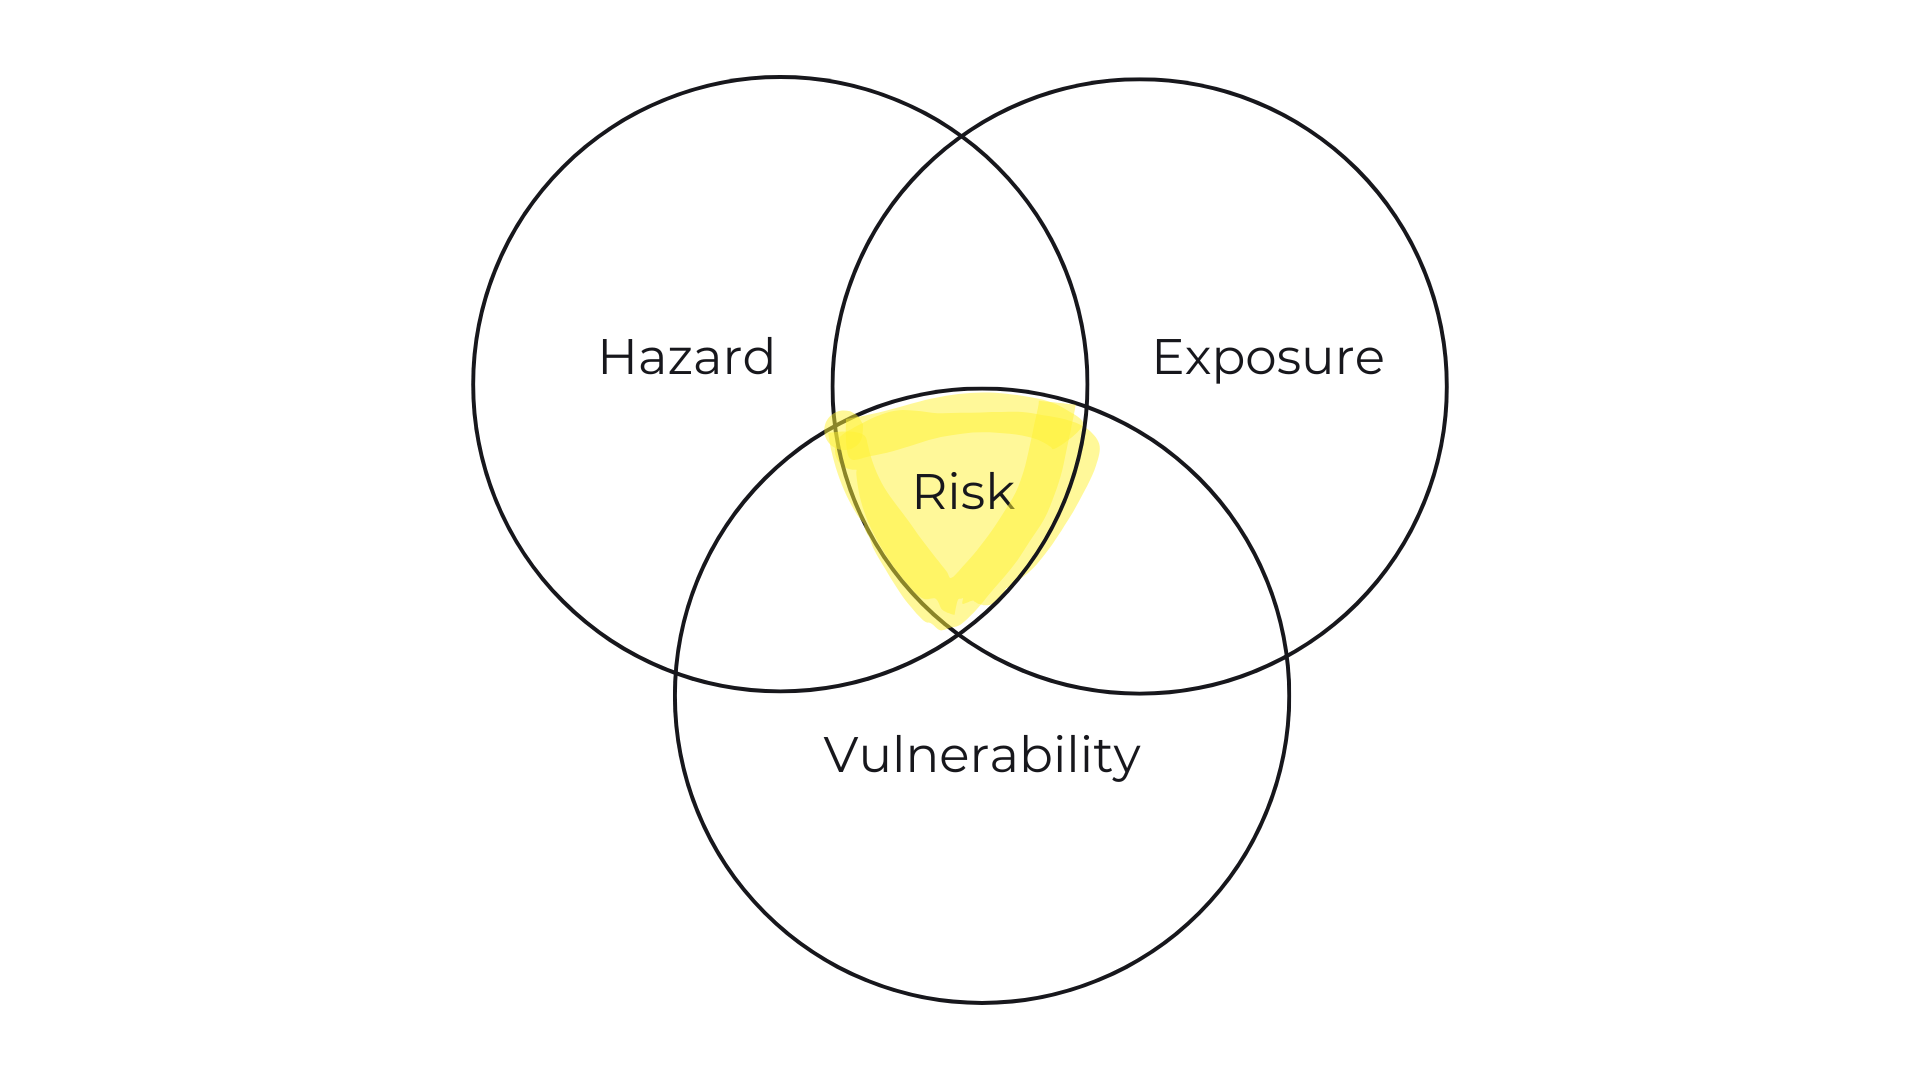
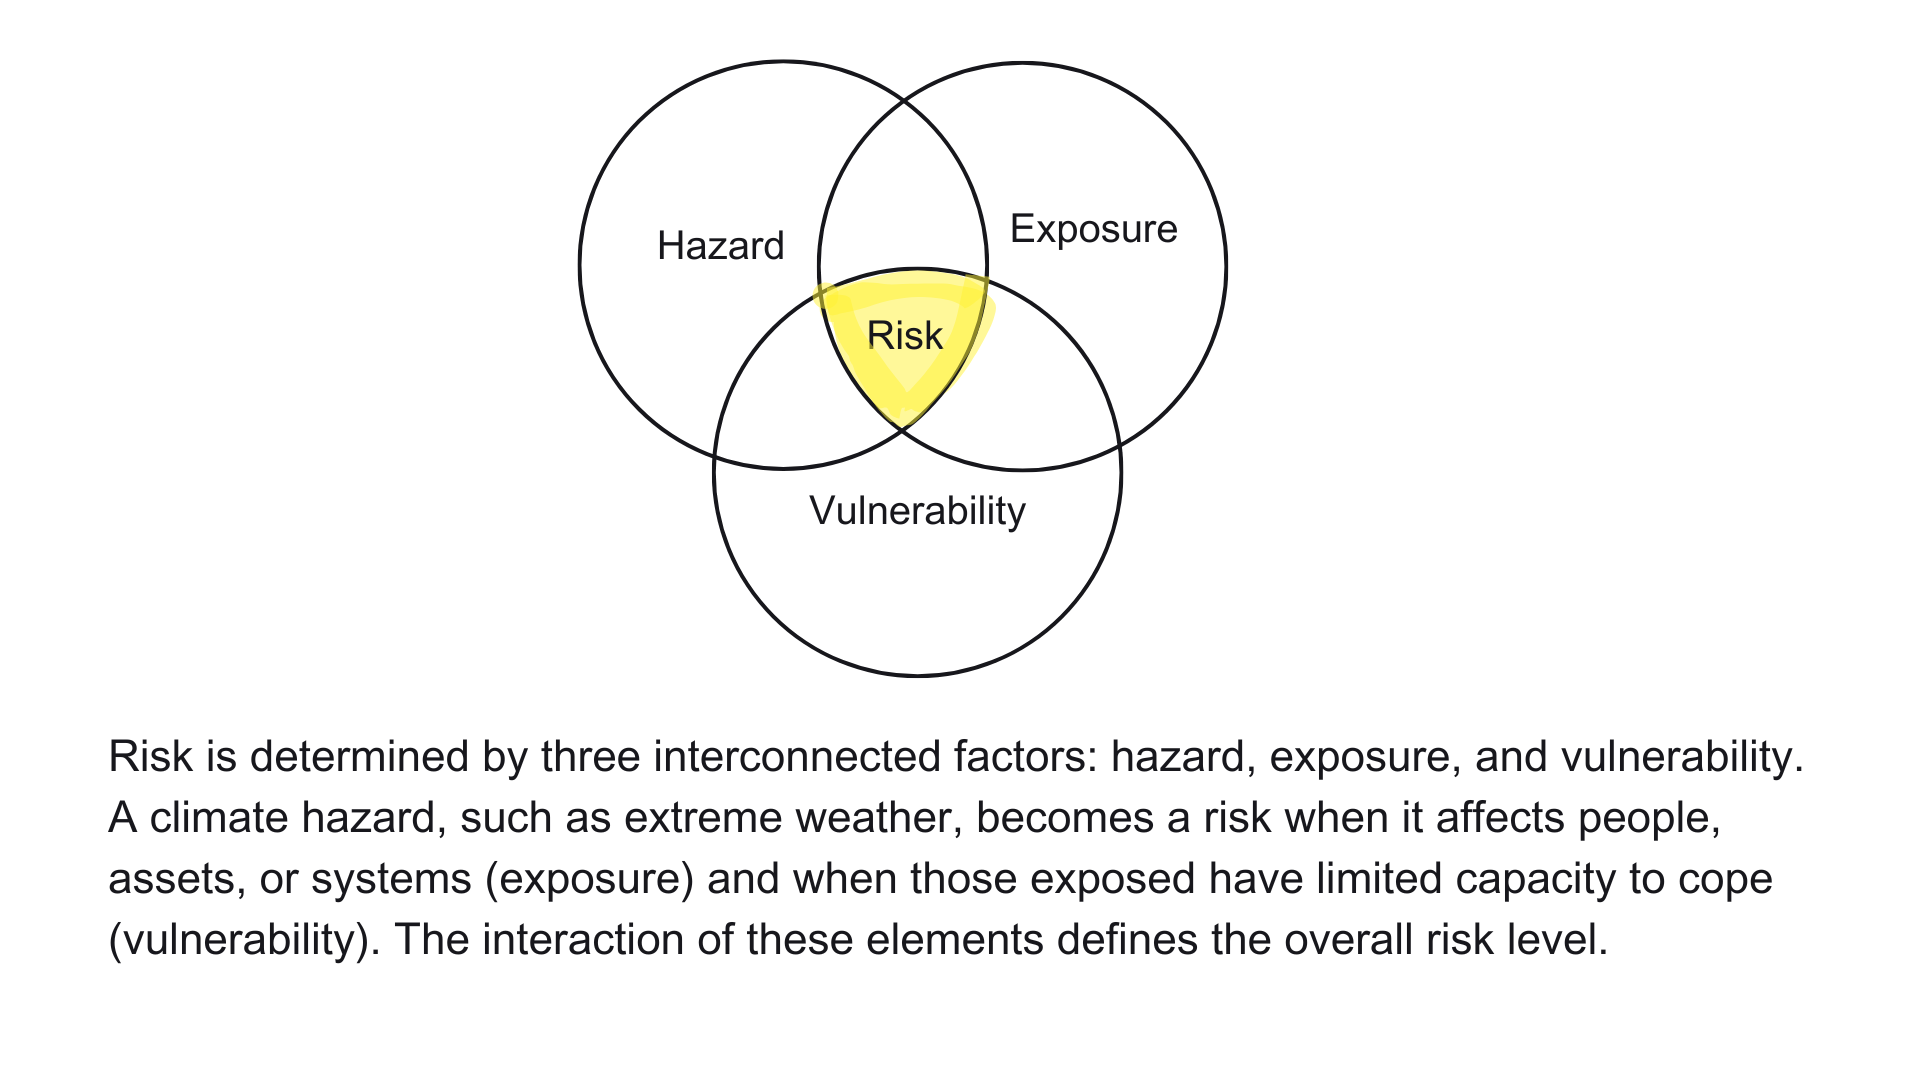
changed arial

diff --git a/index.html b/index.html
@@ -291,9 +291,9 @@
     <!-- Slide 1 Section -->
     <div class="fullscreen-section" style="position: relative; margin-bottom: 50px;">
         <img src="assets/images/Slide 1.png" alt="Slide 1" style="width: 100%; height: 100%; object-fit: cover; position: absolute; top: 0; left: 0;">
-        <div class="fade-in-text" style="position: absolute; bottom: -7%; right: 1%; background: rgba(255, 255, 255, 0.7); color: black; padding: 10px 20px; border-radius: 5px; font-size: 1.2rem; text-align: center; opacity: 0; transform: translateY(20px); transition: opacity 1s ease, transform 1s ease;">
+        <!-- <div class="fade-in-text" style="position: absolute; bottom: -7%; right: 1%; background: rgba(255, 255, 255, 0.7); color: black; padding: 10px 20px; border-radius: 5px; font-size: 1.2rem; text-align: center; opacity: 0; transform: translateY(20px); transition: opacity 1s ease, transform 1s ease;">
         Risk is determined by three interconnected factors: hazard, exposure, and vulnerability. A climate hazard, such as extreme weather, becomes a risk when it affects people, assets, or systems (exposure) and when those exposed have limited capacity to cope (vulnerability). The interaction of these elements defines the overall risk level.
-        </div>
+        </div> -->
     </div>
 
     <!-- Spacer Section -->
@@ -302,9 +302,9 @@
     <!-- GovTech Design Section -->
     <div class="fullscreen-section" style="position: relative;">
         <img src="assets/images/govtech-design.png" alt="GovTech Design" style="width: 100%; height: 100%; object-fit: cover; position: absolute; top: 0; left: 0;">
-        <div class="fade-in-text" style="position: absolute; bottom: 20%; left: 55%; transform: translateX(-50%); background: rgba(255, 255, 255, 0.7); color: black; padding: 10px 20px; border-radius: 5px; font-size: 1.5rem; text-align: center; opacity: 0; transform: translateY(20px); transition: opacity 1s ease, transform 1s ease;">
+        <!-- <div class="fade-in-text" style="position: absolute; bottom: 20%; left: 55%; transform: translateX(-50%); background: rgba(255, 255, 255, 0.7); color: black; padding: 10px 20px; border-radius: 5px; font-size: 1.5rem; text-align: center; opacity: 0; transform: translateY(20px); transition: opacity 1s ease, transform 1s ease;">
             While significant research focuses on how climate change drives conflict, there is a notable gap in understanding how conflict, in turn, exacerbates vulnerability to climate change. This exploration seeks to answer the critical question: Can conflict increase vulnerability to climate change, and if so, how?
-        </div>
+        </div> -->
     </div>
 
     <script>
@@ -536,8 +536,9 @@
             <iframe src="kepler.gl.html" title="Kepler.gl Visualization"></iframe>
         </div>
         <div class="iframe-right">
-            <h2>Transition Into Myanmar Case Study
-            </h2>
+            <h2 style="color: #076647;">
+                Transition Into Myanmar Case Study
+            </h2>            
             <p style="font-size: 1.1rem; font-weight: 500;">
                 Our analyses reveal that conflict has an interesting and potentially important relationship on a nation's ability to address the impacts of climate change. To further explore the relationship, we would like to contextualize these findings within a more specific nation.
             </p>
@@ -555,15 +556,15 @@
                padding: 30px 30px;
                font-size: 1.2rem;
                font-weight: bold;
-               color: #007BFF;
+               color: #076647;
                text-decoration: none;
-               border: 2px solid #007BFF;
+               border: 2px solid #076647;
                border-radius: 8px;
                background-color: white;
                transition: all 0.3s ease;
            "
-           onmouseover="this.style.backgroundColor='#007BFF'; this.style.color='white';"
-           onmouseout="this.style.backgroundColor='white'; this.style.color='#007BFF';">
+           onmouseover="this.style.backgroundColor='#076647'; this.style.color='white';"
+           onmouseout="this.style.backgroundColor='white'; this.style.color='#076647';">
            Dive into our case studies of Myanmar to better understand the dynamics of conflict and climate vulnerability
         </a>
     </div>
